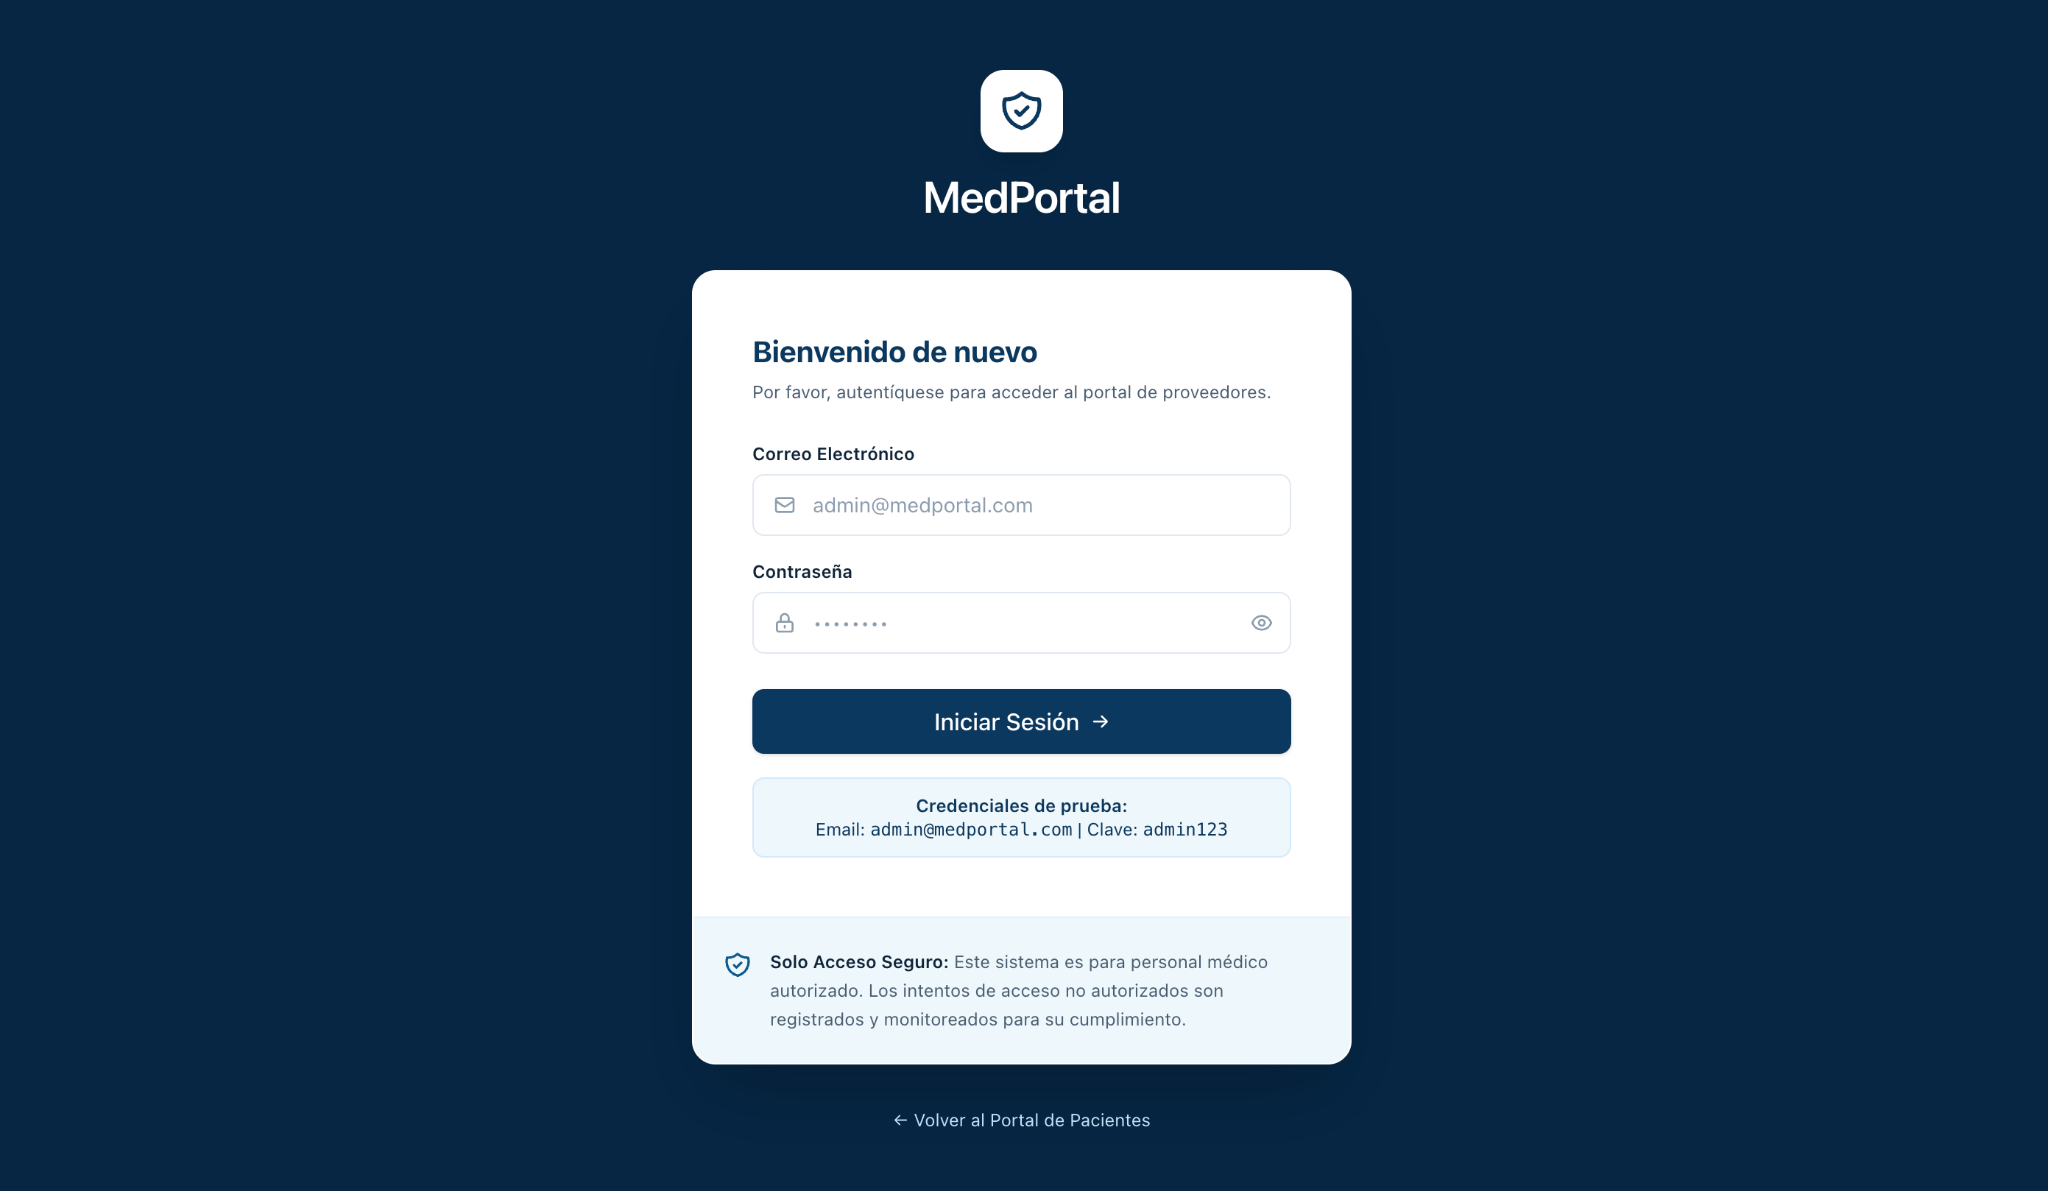
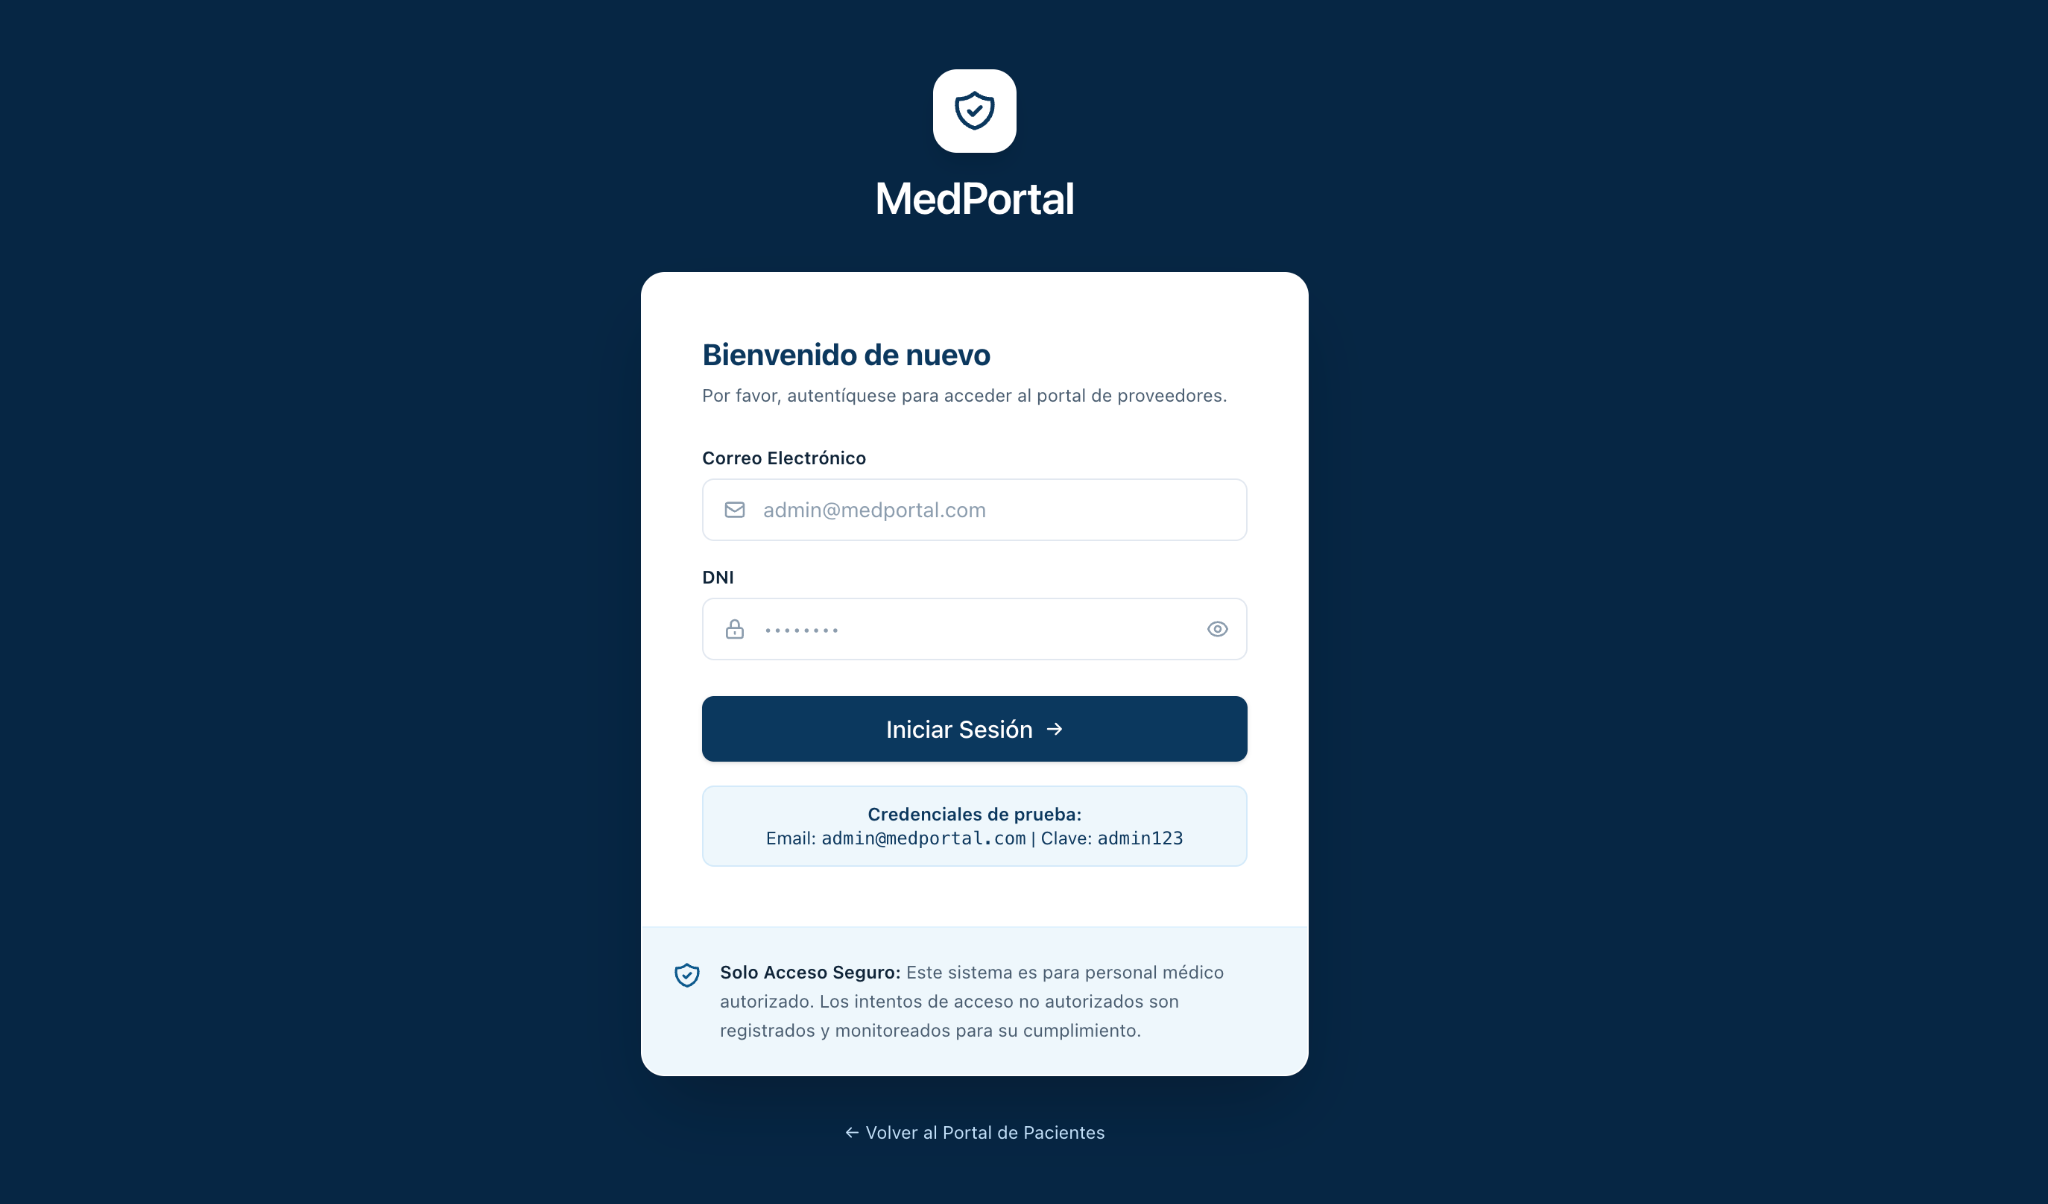
docs: sumar la versión 1.4 del enunciado (18/11)
Se actualizan los cuatro mockups que cambiaron, se registran los flujos obligatorios aclarados por el profesor y se cierran las consultas resueltas.

diff --git a/docs/enunciado-17-nov.md b/docs/enunciado-17-nov.md
@@ -1,36 +1,53 @@
-# Enunciado modificado el 17/11/2026
+# Enunciado modificado en noviembre de 2026
 
-El profesor publicó una nueva versión del enunciado (`DSW2026_TPI_MOD_17_NOV.pdf`, versión 7.0 del archivo compartido, 28 páginas). Este documento compara esa versión con la v1.7 (`DSW2026_TPI (1).pdf`, 30 páginas), que hasta ahora era la referencia del equipo.
+El profesor publicó dos versiones nuevas del enunciado:
+
+- **1.3 (17/11/2026), "Actualización de UI":** `DSW2026_TPI_MOD_17_NOV.pdf`.
+- **1.4 (18/11/2026), "Aclaración de los flujos obligatorios":** `DSW2026_TPI_MOD_18_NOV.pdf`. Es la referencia vigente.
+
+Este documento compara esas versiones con la v1.7 (`DSW2026_TPI (1).pdf`, 30 páginas), que hasta ahora era la referencia del equipo.
 
 ## Resumen
 
-- **Mockups:** son el cambio real. Se rehicieron las 13 imágenes y ya están en `docs/mockups/`.
-- **Texto:** se tomó de una copia anterior del enunciado. El historial interno termina en la versión 1.2 (8/07/2026) y faltan secciones que la v1.7 sí tenía.
-- **Decisión vigente:** el contrato de la API sigue siendo el de `docs/api-contract.md` (v1.7 y backend). Los ajustes visuales siguen los mockups nuevos.
+- **Mockups:** son el cambio real. Se rehicieron las 13 imágenes; las de `docs/mockups/` corresponden a la 1.4.
+- **Flujos obligatorios (1.4):** el profesor aclaró qué acciones de administración son obligatorias. Ver la sección siguiente.
+- **Texto:** la numeración nueva continúa desde la 1.2 (8/07/2026), así que el texto no incluye lo que agregaban las versiones 1.3 a 1.7 anteriores.
+- **Decisión vigente:** el contrato de la API sigue siendo el de `docs/api-contract.md` (v1.7 y backend). Lo que la v1.7 agregaba, como la paginación, no contradice el texto nuevo. Los ajustes visuales siguen los mockups de la 1.4.
+
+## Flujos obligatorios (1.4)
+
+| Pantalla                         | Página | Aclaración del profesor                                                  | Estado en la aplicación                                             |
+| -------------------------------- | ------ | ------------------------------------------------------------------------ | ------------------------------------------------------------------- |
+| Admin: página principal          | 21     | "Ver detalle lleva a la página de doctores"                              | Hoy hay un enlace "Ver directorio completo"; no hay acción por fila |
+| Admin: listado de médicos        | 22     | "Detalle y edición no es obligatorio. Borrado lógico si es obligatorio." | Implementados detalle, edición y baja                               |
+| Admin: listado de especialidades | 23     | "Edición no es obligatorio. Eliminar si es obligatorio."                 | Implementadas edición y baja                                        |
+| Admin: búsqueda avanzada         | 24     | "Ver Detalle no es obligatorio"                                          | Implementado                                                        |
+
+Lo que no es obligatorio y ya está hecho se conserva.
 
 ## Mockups
 
-| Mockup                             | Página | Cambio respecto de la v1.7                                                                                  | Tarjetas |
-| ---------------------------------- | ------ | ----------------------------------------------------------------------------------------------------------- | -------- |
-| Admin: login                       | 21     | Correo en lugar de usuario, recuadro de credenciales de prueba y enlace al portal de pacientes              | F10      |
-| Admin: página principal            | 21     | Menú lateral unificado; acción "Ver Detalle" por médico                                                     | F33, F34 |
-| Admin: listado de médicos          | 22     | Sin indicadores debajo de la tabla                                                                          | F17      |
-| Admin: crear médico                | 22     | Solo cambia el menú lateral                                                                                 | F18, F19 |
-| Admin: disponibilidad horaria      | 23     | Nueva columna "Acciones" con un botón de copiar por día                                                     | F45      |
-| Admin: listado de especialidades   | 23     | Sin indicadores ni imagen debajo de la tabla; agrega paginación                                             | F13      |
-| Admin: crear especialidad          | 24     | Solo cambia el menú lateral                                                                                 | F14, F15 |
-| Admin: búsqueda avanzada           | 24     | Acción "Ver Detalle" por turno                                                                              | F31, F32 |
-| Paciente: login                    | 25     | Fondo azul oscuro, campo "Contraseña", recuadro de credenciales de prueba y enlace al acceso administrativo | F42      |
-| Paciente: reserva de turno         | 25     | Encabezado "Portal Salud" con "Reservar Turno" y "Mis Turnos"; resumen con duración y botón de confirmación | F43      |
-| Paciente: listado de turnos        | 26     | Pantalla nueva: tarjetas con especialidad, médico, fecha, estado y "Cancelar Turno"                         | F44      |
-| Paciente: móvil, reserva de turno  | 27     | Días en fila desplazable, horarios en tres columnas y resumen al final                                      | F43      |
-| Paciente: móvil, listado de turnos | 28     | Pantalla nueva: tarjetas en una columna y "Solicitar Nuevo Turno" debajo del título                         | F44      |
+| Mockup                             | Página | Cambio respecto de la v1.7                                                                                                            | Tarjetas |
+| ---------------------------------- | ------ | ------------------------------------------------------------------------------------------------------------------------------------- | -------- |
+| Admin: login                       | 21     | Correo en lugar de usuario, recuadro de credenciales de prueba y enlace al portal de pacientes. En la 1.4 el segundo campo dice "DNI" | F10      |
+| Admin: página principal            | 21     | Menú lateral unificado; acción "Ver Detalle" por médico                                                                               | F33, F34 |
+| Admin: listado de médicos          | 22     | Sin indicadores debajo de la tabla                                                                                                    | F17      |
+| Admin: crear médico                | 22     | Solo cambia el menú lateral                                                                                                           | F18, F19 |
+| Admin: disponibilidad horaria      | 23     | La 1.3 agregaba un botón de copiar por día; la 1.4 lo quita. Tampoco muestra "Horario Regular"                                        | F21, F22 |
+| Admin: listado de especialidades   | 23     | Sin indicadores ni imagen debajo de la tabla; agrega paginación. En la 1.4 el botón de eliminar está en rojo                          | F13, F16 |
+| Admin: crear especialidad          | 24     | Solo cambia el menú lateral                                                                                                           | F14, F15 |
+| Admin: búsqueda avanzada           | 24     | Acción "Ver Detalle" por turno                                                                                                        | F31, F32 |
+| Paciente: login                    | 25     | Fondo azul oscuro, recuadro de credenciales de prueba y enlace al acceso administrativo. En la 1.4 el campo es "DNI"                  | F42      |
+| Paciente: reserva de turno         | 25     | Encabezado "Portal Salud" con "Reservar Turno" y "Mis Turnos"; botón "Buscar Disponibilidad"                                          | F43      |
+| Paciente: listado de turnos        | 26     | Pantalla nueva: tarjetas con especialidad, médico, fecha, estado y "Cancelar Turno"                                                   | F44      |
+| Paciente: móvil, reserva de turno  | 27     | Días en fila desplazable, horarios en tres columnas y resumen al final                                                                | F43      |
+| Paciente: móvil, listado de turnos | 28     | Pantalla nueva: tarjetas en una columna y "Solicitar Nuevo Turno" debajo del título                                                   | F44      |
 
 ## Texto
 
-Diferencias entre la v1.7 y el PDF del 17/11. Se registran como referencia, pero no se aplican: el texto nuevo corresponde a una copia anterior y la v1.7 sigue vigente.
+Diferencias entre la v1.7 y el texto de las versiones de noviembre. Se registran como referencia, pero no cambian la implementación.
 
-| Tema                      | v1.7                                                           | 17/11                                       |
+| Tema                      | v1.7                                                           | Noviembre (1.3 y 1.4)                       |
 | ------------------------- | -------------------------------------------------------------- | ------------------------------------------- |
 | Paginación                | `pageSize` y `pageIndex` en especialidades, médicos y búsqueda | Solo `name`; la búsqueda sin paginación     |
 | Respuestas                | POST y PUT devuelven la entidad; DELETE devuelve `ok`          | No se especifican                           |
@@ -43,10 +60,14 @@ Diferencias entre la v1.7 y el PDF del 17/11. Se registran como referencia, pero
 | Códigos de error          | Los define el grupo                                            | "A definir"                                 |
 | Entregables y evaluación  | Backend y frontend, con criterios y porcentajes                | No aparecen                                 |
 
-## Consultas para el profesor
+## Consultas resueltas por la 1.4
 
-1. **Login del paciente:** el texto pide correo y DNI, pero el mockup muestra "Contraseña". ¿Cuál vale?
-2. **Botón de copiar en disponibilidad:** ¿qué debe copiar (el horario de un día a los demás días)?
+1. **Login del paciente:** el mockup ahora pide "DNI", igual que el texto. Se mantiene correo y DNI.
+2. **Botón de copiar en disponibilidad:** el mockup ya no lo muestra. No se implementa.
+
+## Consulta abierta
+
+- **Login del administrador:** en la 1.4 el mockup también dice "DNI" en el segundo campo, pero el texto pide correo y contraseña de al menos 8 caracteres (RNF01). Parece un error del mockup: se mantiene la contraseña.
 
 ## Credenciales de prueba
 

diff --git a/docs/ui-guide.md b/docs/ui-guide.md
@@ -68,6 +68,6 @@ En `shared/helpers/formatDate.js`, `formatDate` presenta fechas `YYYY-MM-DD` con
 
 ## Mockups
 
-Las imágenes están en `docs/mockups/` y corresponden al enunciado del 17/11/2026. Los cambios respecto de la v1.7 están en `docs/enunciado-17-nov.md`. El índice y las decisiones sobre datos sin respaldo en el backend están en `docs/tasks/README.md`.
+Las imágenes están en `docs/mockups/` y corresponden a la versión 1.4 del enunciado (18/11/2026). Los cambios respecto de la v1.7 y los flujos obligatorios están en `docs/enunciado-17-nov.md`. El índice y las decisiones sobre datos sin respaldo en el backend están en `docs/tasks/README.md`.
 
 En `TablePagination`, el listado controla el índice desde cero y recibe el siguiente índice en `onPageChange`. Con cero registros, ambos botones quedan deshabilitados.
